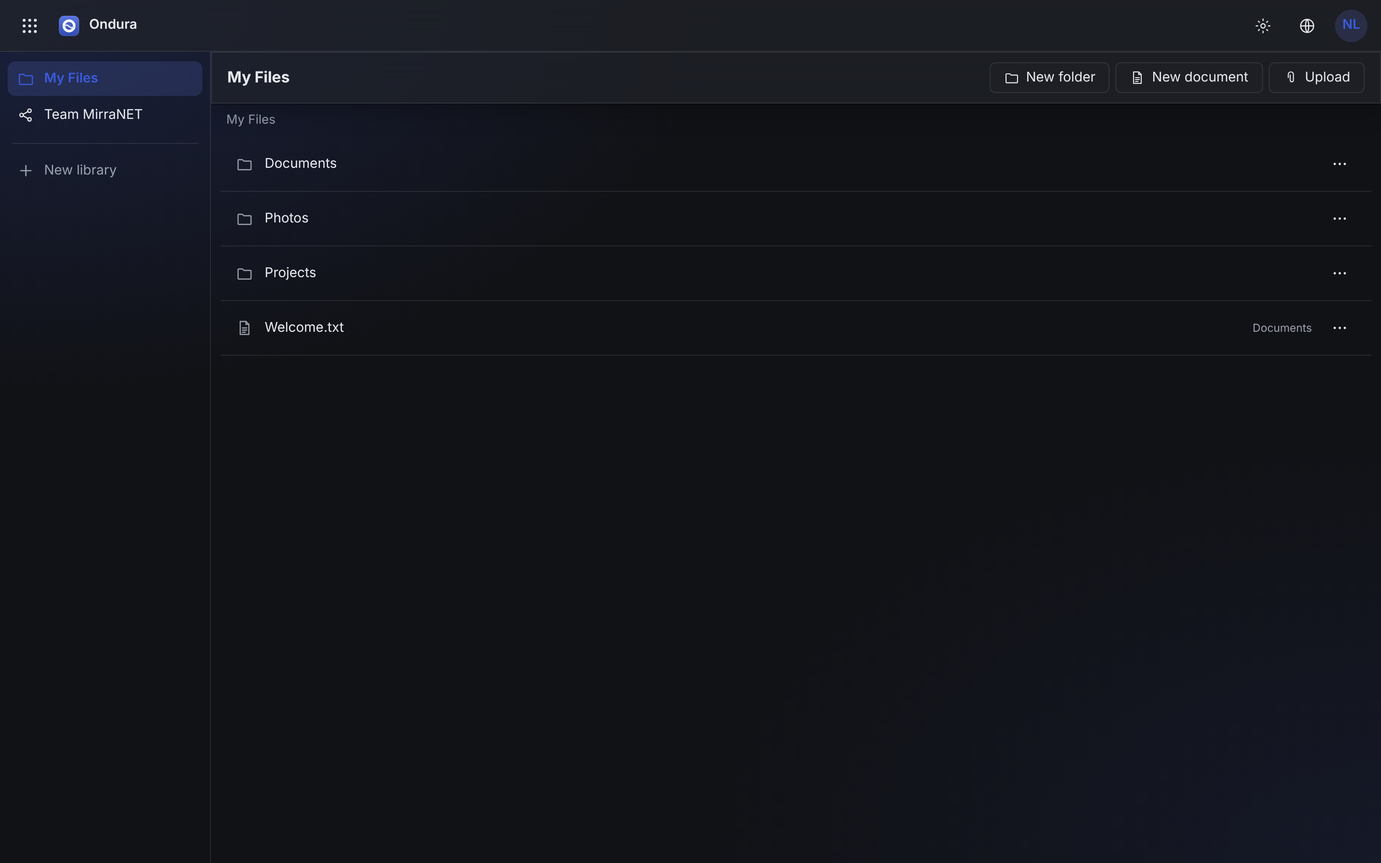
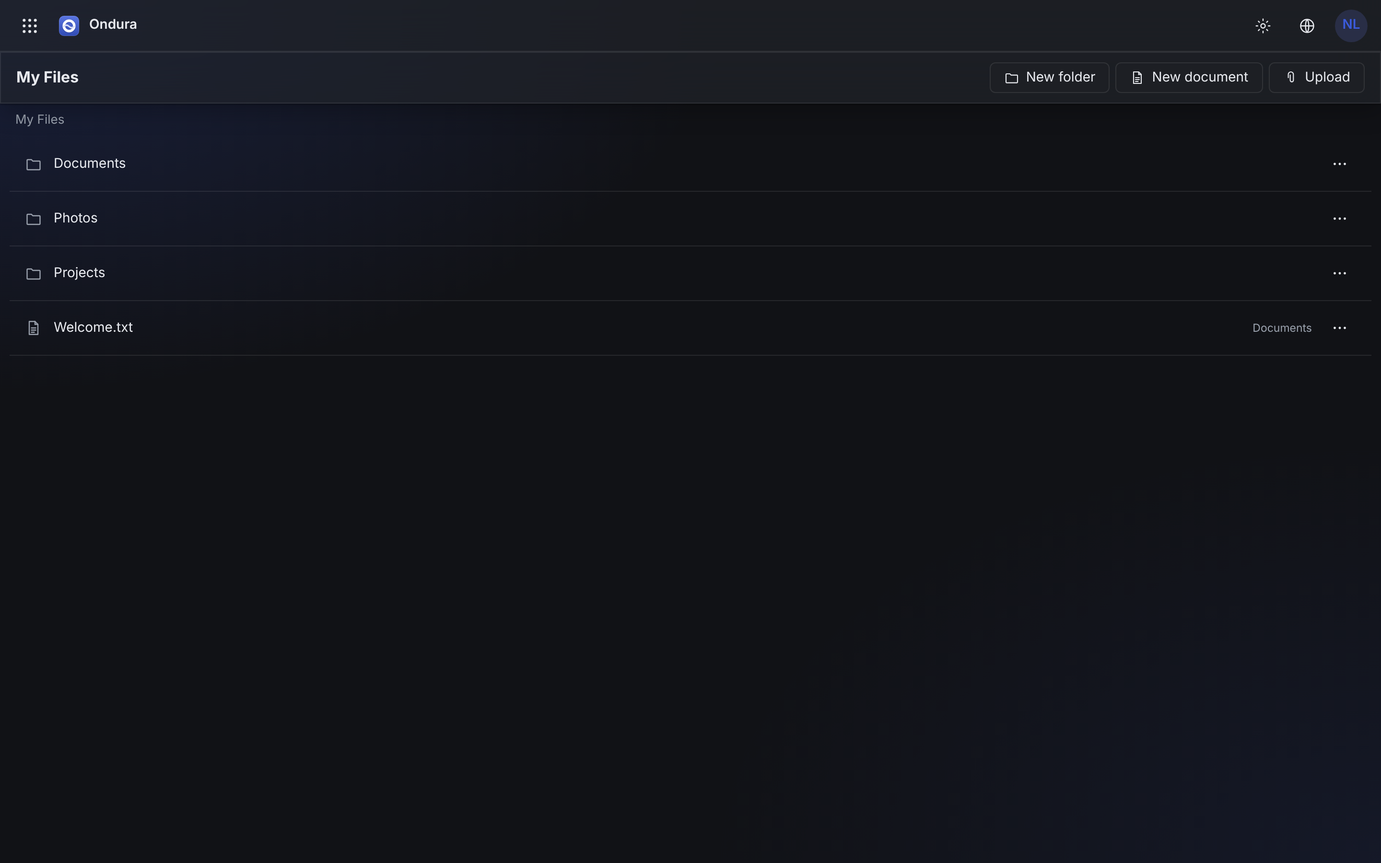
Give each app its own URL and split Files from SharePoint
Each app now has its own path, all served by the same SPA shell which reads
the URL to decide what to open: /mail (mail, calendar, contacts), /files (the
personal drive, OneDrive-style), /sharepoint and /sharepoint/<id> (shared
libraries, each with its own shareable link), /tasks, /notes, and / for the
home dashboard. Files and SharePoint are now separate apps. Admin accounts
get an Admin Center tile linking to /admin. Navigation uses real history
entries, so back/forward and bookmarks work. Screenshots updated.

diff --git a/crates/server/src/webmail/index.html b/crates/server/src/webmail/index.html
@@ -405,7 +405,7 @@ const T = {
     fwd: "Fwd", re: "Re", on: "On", wrote: "wrote:", message: "Message",
     tasks: "Tasks", notes: "Notes", settings: "Settings", newTask: "New task", editTask: "Task", newNote: "New note", editNote: "Note", noTasks: "No tasks", noNotes: "No notes", due: "Due", complete: "Complete", markComplete: "Mark complete", content: "Content",
     profile: "Profile", displayName: "Display name", signature: "Signature", changePassword: "Change password", currentPassword: "Current password", newPassword: "New password", outOfOffice: "Out of office", oofOff: "Off", oofOn: "On", internalReply: "Reply to internal senders", externalReply: "Reply to external senders", passwordChanged: "Password changed", pwMismatch: "Passwords do not match",
-    history: "History", revisions: "Revisions", preview: "Preview", documents: "Documents", newDocument: "New document", noDocuments: "No documents", share: "Share", sharedWith: "Shared with", canEdit: "Can edit", readOnly: "Read only", addPerson: "Share with (e-mail)", owner: "Owner", connecting: "Connecting…", online: "online", readOnlyDoc: "You can view this document but not edit it.", newFolder: "New folder", folderName: "Folder name", rename: "Rename", moveTo: "Move to", markAllRead: "Mark all read", selected: "selected", confirmDeleteFolder: "Delete this folder and its messages?", add: "Add", files: "Files", myFiles: "My Files", libraries: "Libraries", newLibrary: "New library", libraryName: "Library name", upload: "Upload", uploading: "Uploading…", download: "Download", members: "Members", addMember: "Add member (e-mail)", roleViewer: "Viewer", roleEditor: "Editor", emptyFolder: "This folder is empty", deleteLibrary: "Delete library", confirmDeleteItem: "Delete this item?", confirmDeleteLibrary: "Delete this library and everything in it?", home: "Home", hub: "Your apps", apps: "Apps",
+    history: "History", revisions: "Revisions", preview: "Preview", documents: "Documents", newDocument: "New document", noDocuments: "No documents", share: "Share", sharedWith: "Shared with", canEdit: "Can edit", readOnly: "Read only", addPerson: "Share with (e-mail)", owner: "Owner", connecting: "Connecting…", online: "online", readOnlyDoc: "You can view this document but not edit it.", newFolder: "New folder", folderName: "Folder name", rename: "Rename", moveTo: "Move to", markAllRead: "Mark all read", selected: "selected", confirmDeleteFolder: "Delete this folder and its messages?", add: "Add", files: "Files", myFiles: "My Files", libraries: "Libraries", newLibrary: "New library", libraryName: "Library name", upload: "Upload", uploading: "Uploading…", download: "Download", members: "Members", addMember: "Add member (e-mail)", roleViewer: "Viewer", roleEditor: "Editor", emptyFolder: "This folder is empty", deleteLibrary: "Delete library", confirmDeleteItem: "Delete this item?", confirmDeleteLibrary: "Delete this library and everything in it?", home: "Home", hub: "Your apps", apps: "Apps", sharepoint: "SharePoint", admin: "Admin Center",
     shareLink: "Share link", createLink: "Create link", copyLink: "Copy link", copied: "Link copied", linkView: "View only", linkEdit: "Can edit", anyoneCanView: "Anyone with the link can view", anyoneCanEdit: "Anyone with the link can edit", revoke: "Revoke", noLinks: "No links yet", linkInvalid: "This link is invalid or has been revoked.", guestBadge: "Guest",
     remoteBlocked: "Remote content (such as images) was blocked to protect your privacy.", loadRemote: "Load content",
   },
@@ -430,7 +430,7 @@ const T = {
     fwd: "WG", re: "AW", on: "Am", wrote: "schrieb:", message: "Nachricht",
     tasks: "Aufgaben", notes: "Notizen", settings: "Einstellungen", newTask: "Neue Aufgabe", editTask: "Aufgabe", newNote: "Neue Notiz", editNote: "Notiz", noTasks: "Keine Aufgaben", noNotes: "Keine Notizen", due: "Fällig", complete: "Erledigt", markComplete: "Als erledigt", content: "Inhalt",
     profile: "Profil", displayName: "Anzeigename", signature: "Signatur", changePassword: "Passwort ändern", currentPassword: "Aktuelles Passwort", newPassword: "Neues Passwort", outOfOffice: "Abwesenheitsnotiz", oofOff: "Aus", oofOn: "An", internalReply: "Antwort an interne Absender", externalReply: "Antwort an externe Absender", passwordChanged: "Passwort geändert", pwMismatch: "Passwörter stimmen nicht überein",
-    history: "Verlauf", revisions: "Versionen", preview: "Vorschau", documents: "Dokumente", newDocument: "Neues Dokument", noDocuments: "Keine Dokumente", share: "Teilen", sharedWith: "Geteilt mit", canEdit: "Darf bearbeiten", readOnly: "Nur lesen", addPerson: "Teilen mit (E-Mail)", owner: "Besitzer", connecting: "Verbinde…", online: "online", readOnlyDoc: "Du kannst dieses Dokument ansehen, aber nicht bearbeiten.", newFolder: "Neuer Ordner", folderName: "Ordnername", rename: "Umbenennen", moveTo: "Verschieben nach", markAllRead: "Alle als gelesen", selected: "ausgewählt", confirmDeleteFolder: "Diesen Ordner samt Nachrichten löschen?", add: "Hinzufügen", files: "Dateien", myFiles: "Meine Dateien", libraries: "Bibliotheken", newLibrary: "Neue Bibliothek", libraryName: "Name der Bibliothek", upload: "Hochladen", uploading: "Lädt hoch…", download: "Herunterladen", members: "Mitglieder", addMember: "Mitglied hinzufügen (E-Mail)", roleViewer: "Leser", roleEditor: "Bearbeiter", emptyFolder: "Dieser Ordner ist leer", deleteLibrary: "Bibliothek löschen", confirmDeleteItem: "Dieses Element löschen?", confirmDeleteLibrary: "Diese Bibliothek samt Inhalt löschen?", home: "Start", hub: "Deine Apps", apps: "Apps",
+    history: "Verlauf", revisions: "Versionen", preview: "Vorschau", documents: "Dokumente", newDocument: "Neues Dokument", noDocuments: "Keine Dokumente", share: "Teilen", sharedWith: "Geteilt mit", canEdit: "Darf bearbeiten", readOnly: "Nur lesen", addPerson: "Teilen mit (E-Mail)", owner: "Besitzer", connecting: "Verbinde…", online: "online", readOnlyDoc: "Du kannst dieses Dokument ansehen, aber nicht bearbeiten.", newFolder: "Neuer Ordner", folderName: "Ordnername", rename: "Umbenennen", moveTo: "Verschieben nach", markAllRead: "Alle als gelesen", selected: "ausgewählt", confirmDeleteFolder: "Diesen Ordner samt Nachrichten löschen?", add: "Hinzufügen", files: "Dateien", myFiles: "Meine Dateien", libraries: "Bibliotheken", newLibrary: "Neue Bibliothek", libraryName: "Name der Bibliothek", upload: "Hochladen", uploading: "Lädt hoch…", download: "Herunterladen", members: "Mitglieder", addMember: "Mitglied hinzufügen (E-Mail)", roleViewer: "Leser", roleEditor: "Bearbeiter", emptyFolder: "Dieser Ordner ist leer", deleteLibrary: "Bibliothek löschen", confirmDeleteItem: "Dieses Element löschen?", confirmDeleteLibrary: "Diese Bibliothek samt Inhalt löschen?", home: "Start", hub: "Deine Apps", apps: "Apps", sharepoint: "SharePoint", admin: "Admin Center",
     shareLink: "Freigabelink", createLink: "Link erstellen", copyLink: "Link kopieren", copied: "Link kopiert", linkView: "Nur ansehen", linkEdit: "Darf bearbeiten", anyoneCanView: "Jeder mit dem Link kann ansehen", anyoneCanEdit: "Jeder mit dem Link kann bearbeiten", revoke: "Entziehen", noLinks: "Noch keine Links", linkInvalid: "Dieser Link ist ungültig oder wurde entzogen.", guestBadge: "Gast",
     remoteBlocked: "Externe Inhalte (z. B. Bilder) wurden zum Schutz deiner Privatsphäre blockiert.", loadRemote: "Inhalte laden",
   },
@@ -555,7 +555,7 @@ $("#langToggle").addEventListener("click", (e) => { e.preventDefault(); setLang(
 $("#langBtn").addEventListener("click", () => setLang(lang === "de" ? "en" : "de"));
 $("#composeBtn").addEventListener("click", () => openCompose());
 $("#appLauncher").addEventListener("click", openApps);
-$("#brandHome").addEventListener("click", () => gotoApp("home"));
+$("#brandHome").addEventListener("click", () => navTo("home"));
 
 // ---- account menu + avatar ----
 function avatarUrl() { return me && me.avatar ? `/mail/api/avatar/${me.id}?v=${me.avatar}` : null; }
@@ -674,8 +674,37 @@ async function start() {
     let info = null; try { info = await capi("GET", "/link/" + linkTok); } catch (e) {}
     if (info && info.docId) { view = "documents"; renderDocuments(); setTimeout(() => openDoc(info.docId), 0); return; }
   }
-  view = "home"; render();
+  routeAndRender();
 }
+
+// Each app has its own URL (/mail, /files, /sharepoint[/<id>[/<folder>]],
+// /tasks, /notes, / for the hub); the SPA reads the path to decide what to show.
+function routeFromPath() {
+  const seg = location.pathname.split("/").filter(Boolean);
+  switch (seg[0]) {
+    case "mail": return { view: "mail" };
+    case "files": fs.parent = seg[1] ? +seg[1] : null; return { view: "files" };
+    case "sharepoint": fs.driveId = seg[1] ? +seg[1] : null; fs.parent = seg[2] ? +seg[2] : null; return { view: "sharepoint" };
+    case "tasks": return { view: "tasks" };
+    case "notes": return { view: "notes" };
+    default: return { view: "home" };
+  }
+}
+function routeAndRender() {
+  const r = routeFromPath();
+  view = ((r.view === "files" || r.view === "sharepoint") && !(me && me.cloud)) ? "home" : r.view;
+  render();
+}
+function appPath(v, o) {
+  o = o || {};
+  if (v === "files") return "/files" + (o.parent ? "/" + o.parent : "");
+  if (v === "sharepoint") return "/sharepoint" + (o.drive ? "/" + o.drive : "") + (o.drive && o.parent ? "/" + o.parent : "");
+  if (v === "mail" || v === "calendar" || v === "contacts") return "/mail";
+  if (v === "tasks") return "/tasks";
+  if (v === "notes") return "/notes";
+  return "/";
+}
+window.addEventListener("popstate", () => { if (me) routeAndRender(); });
 
 // Open a document from a share link without an account (guest mode).
 async function openGuestDoc(token) {
@@ -718,9 +747,9 @@ function renderRail() {
         return `<div class="folder ${curFolder && f.id === curFolder.id ? "active" : ""}" data-folder="${f.id}">${icon(f.role || "folder")}<span class="nm">${esc(folderLabel(f))}</span>${custom ? `<button class="iconbtn fmenu" data-fid="${f.id}" data-fname="${esc(f.name)}" style="width:22px;height:22px">${icon("dots")}</button>` : ""}${f.unread ? `<span class="ct">${f.unread}</span>` : ""}</div>`;
       }).join("");
     }
-  } else if (view === "files") {
-    const drives = (typeof fs !== "undefined" && fs.drives) ? fs.drives : [];
-    html += drives.map((d) => `<div class="navitem ${fs.driveId === d.id ? "active" : ""}" data-drive="${d.id}">${icon(d.kind === "personal" ? "folder" : "share")}<span>${esc(d.kind === "personal" ? t("myFiles") : d.name)}</span></div>`).join("");
+  } else if (view === "sharepoint") {
+    const libs = (typeof fs !== "undefined" && fs.drives ? fs.drives : []).filter((d) => d.kind === "library");
+    html += libs.map((d) => `<div class="navitem ${fs.driveId === d.id ? "active" : ""}" data-drive="${d.id}">${icon("share")}<span>${esc(d.name)}</span></div>`).join("");
     html += `<div class="railsep"></div><div class="navitem" id="railNewLib" style="color:var(--muted)">${icon("plus")}<span>${esc(t("newLibrary"))}</span></div>`;
   }
   $("#rail").innerHTML = html;
@@ -733,42 +762,51 @@ function renderRail() {
     else { if (!confirm(t("confirmDeleteFolder"))) return; await api("POST", "/folder/delete", { id: +b.dataset.fid }); if (curFolder && curFolder.id == b.dataset.fid) curFolder = folders.find((f) => f.role === "inbox"); }
     await refreshFolders(); render();
   }));
-  $("#rail").querySelectorAll("[data-drive]").forEach((e) => e.onclick = () => { fs.driveId = +e.dataset.drive; fs.parent = null; renderFiles(); });
+  $("#rail").querySelectorAll("[data-drive]").forEach((e) => e.onclick = () => { fs.driveId = +e.dataset.drive; fs.parent = null; history.pushState({}, "", appPath("sharepoint", { drive: fs.driveId })); renderFiles(); });
   const rnl = $("#railNewLib"); if (rnl) rnl.onclick = guard(async () => { const name = prompt(t("libraryName")); if (!name) return; const r = await api("POST", "/cloud/library", { name: name.trim() }); fs.drives = []; fs.driveId = r.id; fs.parent = null; renderFiles(); });
 }
 
-// Top-level apps shown on the home dashboard and in the app launcher. Mail is
-// one app (mail, calendar and contacts inside it); Files, Tasks and Notes are
-// their own apps.
+// Top-level apps shown on the home dashboard and in the app launcher. Mail
+// bundles mail, calendar and contacts (Outlook-style); Files (personal, like
+// OneDrive), SharePoint (shared libraries), Tasks and Notes are their own apps.
+// Admins also get a link to the Admin Center.
 function appList() {
-  return [
-    { k: "mail", ic: "mail", c: "#4f6ef7" },
-    (me && me.cloud) ? { k: "files", ic: "folder", c: "#16a34a" } : null,
-    { k: "tasks", ic: "tasks", c: "#0ea5e9" },
-    { k: "notes", ic: "note", c: "#8b5cf6" },
-  ].filter(Boolean);
+  const a = [{ k: "mail", ic: "mail", c: "#4f6ef7" }];
+  if (me && me.cloud) { a.push({ k: "files", ic: "folder", c: "#16a34a" }); a.push({ k: "sharepoint", ic: "share", c: "#0d9488" }); }
+  a.push({ k: "tasks", ic: "tasks", c: "#0ea5e9" });
+  a.push({ k: "notes", ic: "note", c: "#8b5cf6" });
+  if (me && me.admin) a.push({ k: "admin", ic: "settings", c: "#ef4444", ext: "/admin/" });
+  return a;
 }
-function gotoApp(k) { view = k; curMsg = null; selected.clear(); catFilter = null; msgFilter = "all"; render(); }
+function navTo(k) {
+  const a = appList().find((x) => x.k === k);
+  if (a && a.ext) { location.href = a.ext; return; }
+  view = k; curMsg = null; selected.clear(); catFilter = null; msgFilter = "all";
+  if (k === "files") fs.parent = null;
+  if (k === "sharepoint") { fs.driveId = null; fs.parent = null; }
+  history.pushState({}, "", appPath(k, {}));
+  render();
+}
 function appTiles() {
   return appList().map((a) => `<button class="apptile" data-app="${a.k}"><span class="appicon" style="background:${a.c}22;color:${a.c}">${icon(a.ic)}</span><span>${esc(t(a.k))}</span></button>`).join("");
 }
 function renderHome() {
   $("#view").innerHTML = `<div class="homewrap"><div class="homehd"><h1>${esc(me && me.name ? me.name : "Ondura")}</h1><p>${esc(t("hub"))}</p></div><div class="appgrid">${appTiles()}</div></div>`;
-  $("#view").querySelectorAll("[data-app]").forEach((e) => e.onclick = () => gotoApp(e.dataset.app));
+  $("#view").querySelectorAll("[data-app]").forEach((e) => e.onclick = () => navTo(e.dataset.app));
 }
 function openApps() {
   closeMenu();
   const m = document.createElement("div"); m.id = "ctxMenu"; m.className = "glass";
-  m.style.cssText = "position:fixed;top:52px;left:10px;z-index:70;padding:12px;width:264px";
+  m.style.cssText = "position:fixed;top:52px;left:10px;z-index:70;padding:12px;width:300px";
   m.innerHTML = `<div class="appgrid mini">${appTiles()}</div>`;
   document.body.appendChild(m);
-  m.querySelectorAll("[data-app]").forEach((e) => e.onclick = () => { closeMenu(); gotoApp(e.dataset.app); });
+  m.querySelectorAll("[data-app]").forEach((e) => e.onclick = () => { closeMenu(); navTo(e.dataset.app); });
   setTimeout(() => document.addEventListener("click", closeMenu, { once: true }), 0);
 }
 function render() {
   applyTexts();
   const mailApp = inMailApp(view);
-  const hasRail = mailApp || view === "files";
+  const hasRail = mailApp || view === "sharepoint";
   document.getElementById("app").classList.toggle("norail", !hasRail);
   // Compose and mail search belong to the Mail app only.
   $("#composeBtn").style.display = mailApp ? "" : "none";
@@ -781,7 +819,7 @@ function render() {
   else if (view === "tasks") renderTasks();
   else if (view === "notes") renderNotes();
   else if (view === "documents") renderDocuments();
-  else if (view === "files") renderFiles();
+  else if (view === "files" || view === "sharepoint") renderFiles();
 }
 
 // ------------------------------------------------------------ MAIL
@@ -1917,20 +1955,32 @@ function openMenu(ev, items) {
 
 function fmtSize(n) { if (n < 1024) return n + " B"; if (n < 1048576) return (n / 1024).toFixed(1) + " KB"; if (n < 1073741824) return (n / 1048576).toFixed(1) + " MB"; return (n / 1073741824).toFixed(1) + " GB"; }
 
+// Serves both the Files app (personal drive, OneDrive-style) and the SharePoint
+// app (shared libraries), depending on `view`.
 async function renderFiles() {
   if (!fs.drives.length) { try { const r = await api("GET", "/cloud/drives"); fs.drives = r.drives || []; } catch (e) { fs.drives = []; } }
-  if ((!fs.driveId || !fs.drives.some((d) => d.id === fs.driveId)) && fs.drives.length) fs.driveId = fs.drives[0].id;
+  if (view === "files") {
+    const personal = fs.drives.find((d) => d.kind === "personal");
+    fs.driveId = personal ? personal.id : null;
+  } else {
+    const libs = fs.drives.filter((d) => d.kind === "library");
+    if (!fs.driveId || !libs.some((d) => d.id === fs.driveId)) fs.driveId = libs.length ? libs[0].id : null;
+  }
   let data = { items: [], path: [], role: "viewer", canWrite: false };
   if (fs.driveId) { try { data = await api("GET", `/cloud/items?drive=${fs.driveId}` + (fs.parent ? `&parent=${fs.parent}` : "")); } catch (e) {} }
   fs.items = data.items || []; fs.path = data.path || []; fs.role = data.role || "viewer"; fs.canWrite = !!data.canWrite;
   const drive = fs.drives.find((d) => d.id === fs.driveId);
+  // Keep the URL in step so the current library/folder can be linked.
+  history.replaceState({}, "", appPath(view, { drive: view === "sharepoint" ? fs.driveId : null, parent: fs.parent }));
   const driveName = (d) => d.kind === "personal" ? t("myFiles") : d.name;
+  const rootName = drive ? driveName(drive) : (view === "sharepoint" ? t("sharepoint") : t("myFiles"));
   const tools = fs.canWrite ? `<button class="btn" id="fNewFolder">${icon("folder")}<span>${esc(t("newFolder"))}</span></button>
     <button class="btn" id="fNewDoc">${icon("doc")}<span>${esc(t("newDocument"))}</span></button>
     <button class="btn" id="fUpload">${icon("paperclip")}<span>${esc(t("upload"))}</span></button>
     <input type="file" id="fFile" multiple style="display:none">` : "";
   const memBtn = drive && drive.kind === "library" ? `<button class="btn" id="fMembers">${icon("contacts")}<span>${esc(t("members"))}</span></button>` : "";
-  const crumbs = `<button style="background:none;border:0;color:var(--muted);cursor:pointer;padding:0;font-size:13px" data-crumb="">${esc(drive ? driveName(drive) : t("files"))}</button>`
+  const linkBtn = drive && drive.kind === "library" ? `<button class="btn" id="fLink">${icon("link")}<span>${esc(t("copyLink"))}</span></button>` : "";
+  const crumbs = `<button style="background:none;border:0;color:var(--muted);cursor:pointer;padding:0;font-size:13px" data-crumb="">${esc(rootName)}</button>`
     + fs.path.map((p) => `<span style="color:var(--muted)">/</span><button style="background:none;border:0;color:var(--muted);cursor:pointer;padding:0;font-size:13px" data-crumb="${p.id}">${esc(p.name)}</button>`).join("");
   const rows = fs.items.length
     ? fs.items.map((it) => {
@@ -1941,8 +1991,8 @@ async function renderFiles() {
     : `<div class="empty">${esc(t("emptyFolder"))}</div>`;
   $("#view").innerHTML = `<div style="display:flex;flex-direction:column;height:100%">
     <div class="glass" style="display:flex;gap:8px;align-items:center;padding:10px 16px;flex-wrap:wrap;border-radius:0">
-      <h2 style="flex:1;font-size:16px;margin:0">${esc(drive ? driveName(drive) : t("files"))}</h2>
-      <div style="display:flex;gap:6px;flex-wrap:wrap">${tools}${memBtn}</div>
+      <h2 style="flex:1;font-size:16px;margin:0">${esc(rootName)}</h2>
+      <div style="display:flex;gap:6px;flex-wrap:wrap">${tools}${linkBtn}${memBtn}</div>
     </div>
     <div style="display:flex;gap:4px;align-items:center;padding:8px 16px;font-size:13px;flex-wrap:wrap">${crumbs}</div>
     <div style="flex:1;overflow:auto;padding:0 10px 16px">${rows}</div></div>`;
@@ -1951,10 +2001,11 @@ async function renderFiles() {
   const nd = $("#fNewDoc"); if (nd) nd.onclick = guard(async () => { const name = prompt(t("newDocument")); if (name === null) return; const r = await api("POST", "/cloud/doc", { drive: fs.driveId, parent: fs.parent, name: (name || "").trim() || t("newDocument") }); openDriveDoc(r.doc); });
   const up = $("#fUpload"); const fi = $("#fFile"); if (up && fi) { up.onclick = () => fi.click(); fi.onchange = () => uploadFiles(fi.files); }
   const mb = $("#fMembers"); if (mb) mb.onclick = () => openMembers(fs.driveId);
+  const lb = $("#fLink"); if (lb) lb.onclick = () => { const url = location.origin + appPath("sharepoint", { drive: fs.driveId }); if (navigator.clipboard) navigator.clipboard.writeText(url); toast(t("copied")); };
   $("#view").querySelectorAll("[data-open]").forEach((el) => el.onclick = () => openItem(fs.items.find((x) => x.id === +el.dataset.open)));
   $("#view").querySelectorAll("[data-menu]").forEach((el) => el.onclick = (ev) => { ev.stopPropagation(); itemMenu(ev, fs.items.find((x) => x.id === +el.dataset.menu)); });
-  // Refresh the left nav (drives) now that they are loaded.
-  if (view === "files") renderRail();
+  // Refresh the left nav (libraries) now that they are loaded.
+  if (view === "sharepoint") renderRail();
 }
 
 function openItem(it) {
@@ -1969,16 +2020,17 @@ function openDriveDoc(docId) { openCloudDoc(docId); }
 // A collaborative document now lives only inside the cloud; open it in a
 // focused editor reached from Files (no separate Documents section).
 async function openCloudDoc(id) {
+  const back = (view === "sharepoint") ? "sharepoint" : "files";
   curDoc = id;
   let meta;
   try { meta = await capi("GET", "/docs/" + id); } catch (e) { toast(e.message, true); return; }
-  view = "docview"; renderRail();
+  view = "docview"; document.getElementById("app").classList.add("norail"); $("#rail").innerHTML = "";
   const shareBtn = meta.owned ? `<button class="btn" id="docShare">${icon("share")}<span>${esc(t("share"))}</span></button>` : "";
   $("#view").innerHTML = `<div class="editor" id="docEditor" style="height:100%">
     <div class="eh"><button class="iconbtn" id="docBack" title="${esc(t("files"))}">${icon("folder")}</button><h2 id="docTitle" style="flex:1">${esc(meta.name)}</h2><div class="pres" id="docPres"></div><span class="status" id="docStatus"><span class="dot-off"></span>${esc(t("connecting"))}</span><button class="iconbtn" id="docHist" title="${esc(t("history"))}">${icon("clock")}</button>${shareBtn}</div>
     <div class="editorwrap"><div class="mirror" id="docMirror" aria-hidden="true"></div><textarea id="docArea" ${meta.canWrite ? "" : "readonly"} spellcheck="false"></textarea><div class="cursors" id="docCursors"></div></div>
     ${meta.canWrite ? "" : `<div style="padding:6px 16px;color:var(--muted);font-size:12.5px;border-top:1px solid var(--border)">${esc(t("readOnlyDoc"))}</div>`}`;
-  $("#docBack").onclick = () => { if (docWs) { try { docWs.close(); } catch (e) {} } curDoc = null; view = "files"; renderRail(); renderFiles(); };
+  $("#docBack").onclick = () => { if (docWs) { try { docWs.close(); } catch (e) {} } curDoc = null; view = back; history.pushState({}, "", appPath(back, { drive: fs.driveId, parent: fs.parent })); render(); };
   if ($("#docShare")) $("#docShare").onclick = () => openShare(id, meta);
   $("#docHist").onclick = () => openHistory(id);
   connectDoc(id, meta.canWrite);

diff --git a/crates/server/src/http.rs b/crates/server/src/http.rs
@@ -180,8 +180,20 @@ async fn dispatch(State(app): State<Shared>, req: Request) -> Response {
         "/autodiscover/autodiscover.xml" => autodiscover::xml(&app, &headers, &body, ip).await,
         "/.well-known/ondura-server" | "/ondura-server" => ondura_identity(&app),
         "" => {
-            let to = if app.cfg.http.webmail { "/mail/" } else { "/admin/" };
-            Redirect::temporary(to).into_response()
+            if app.cfg.http.webmail {
+                webmail::shell()
+            } else {
+                Redirect::temporary("/admin/").into_response()
+            }
+        }
+        // Each app has its own URL; all serve the same SPA shell, which reads the
+        // path to decide which app to open. The API and assets stay under /mail.
+        p if p == "/files" || p.starts_with("/files/") || p == "/sharepoint" || p.starts_with("/sharepoint/") || p == "/tasks" || p.starts_with("/tasks/") || p == "/notes" || p.starts_with("/notes/") => {
+            if app.cfg.http.webmail && method == axum::http::Method::GET {
+                webmail::shell()
+            } else {
+                StatusCode::NOT_FOUND.into_response()
+            }
         }
         p if p.starts_with("/admin") => {
             if !app.cfg.http.admin_center {

diff --git a/crates/server/src/webmail/mod.rs b/crates/server/src/webmail/mod.rs
@@ -101,6 +101,16 @@ pub(crate) fn session_user(app: &Shared, headers: &HeaderMap) -> Option<User> {
     app.store.session_user(&token).ok().flatten().filter(|u| u.enabled && u.kind == "user")
 }
 
+/// The webmail single-page app shell (index.html). Served under `/mail` and the
+/// other per-app paths (`/files`, `/sharepoint`, `/tasks`, `/notes`, `/`); the
+/// SPA reads its path to decide which app to open. The JSON API and assets stay
+/// under `/mail`.
+pub fn shell() -> Response {
+    let mut r = (StatusCode::OK, INDEX).into_response();
+    r.headers_mut().insert(header::CONTENT_TYPE, HeaderValue::from_static("text/html; charset=utf-8"));
+    security_headers(r)
+}
+
 pub async fn handle(app: Shared, method: Method, path: &str, query: &str, headers: &HeaderMap, body: Bytes, ip: IpAddr) -> Response {
     let rest = path.trim_start_matches("/mail");
     if !rest.starts_with("/api") {
@@ -298,6 +308,7 @@ fn me(app: &Shared, user: &User) -> ApiResult {
         "addresses": addresses,
         "collab": app.collab_enabled(),
         "cloud": app.cfg.cloud.enabled,
+        "admin": user.is_admin && app.cfg.http.admin_center,
         "avatar": app.store.avatar_updated(user.id).ok().flatten(),
         "id": user.id,
         "folders": list,

diff --git a/docs/webmail.md b/docs/webmail.md
@@ -5,12 +5,22 @@ without setting up a mail program. It offers mail, calendar and contacts and
 uses the same storage as ActiveSync and EWS — anything changed in webmail shows
 up in connected clients and vice versa.
 
-Signing in lands on a **home dashboard** with a tile for each app — Mail,
-Files (the cloud), Calendar, Contacts, Tasks and Notes. Each app is its own
-space with its own left navigation: Mail shows mail folders, Files shows the
-drives (My Files and shared libraries), and so on. Switch apps from the home
-tiles or the app launcher (the grid button, top left); the Ondura logo returns
-to the dashboard.
+Signing in lands on a **home dashboard** with a tile for each app, and each app
+has its own URL:
+
+| App | URL | Contents |
+| --- | --- | --- |
+| Mail | `/mail` | Mail, calendar and contacts (like Outlook), switched from the app's own left navigation. |
+| Files | `/files` | The personal drive (OneDrive-style). |
+| SharePoint | `/sharepoint`, `/sharepoint/<id>` | Shared libraries; each library has its own link, so it can be shared or bookmarked. |
+| Tasks | `/tasks` | Tasks. |
+| Notes | `/notes` | Notes. |
+| Home | `/` | The dashboard. |
+
+Each app is its own space with its own left navigation. Switch apps from the
+home tiles or the app launcher (the grid button, top left); the Ondura logo
+returns to the dashboard. Admins also get an **Admin Center** tile linking to
+`/admin`. The Compose button and mail search appear only inside the Mail app.
 
 ![Webmail](screenshots/webmail.png)
 

diff --git a/docs/cloud.md b/docs/cloud.md
@@ -94,6 +94,14 @@ Collaborative documents live **only** inside the cloud now: they are created as
 items in a drive and opened from Files, and there is no separate documents
 section.
 
+The cloud is split into two apps with their own URLs: **Files** (`/files`, the
+personal drive, OneDrive-style) and **SharePoint** (`/sharepoint`, the shared
+libraries). Each library has its own link (`/sharepoint/<id>`) — the **Copy
+link** button copies it — so a library can be shared or bookmarked like a
+SharePoint site.
+
+![SharePoint](screenshots/sharepoint.png)
+
 ## Nextcloud clients
 
 Each user's personal drive is also reachable by the official Nextcloud mobile
